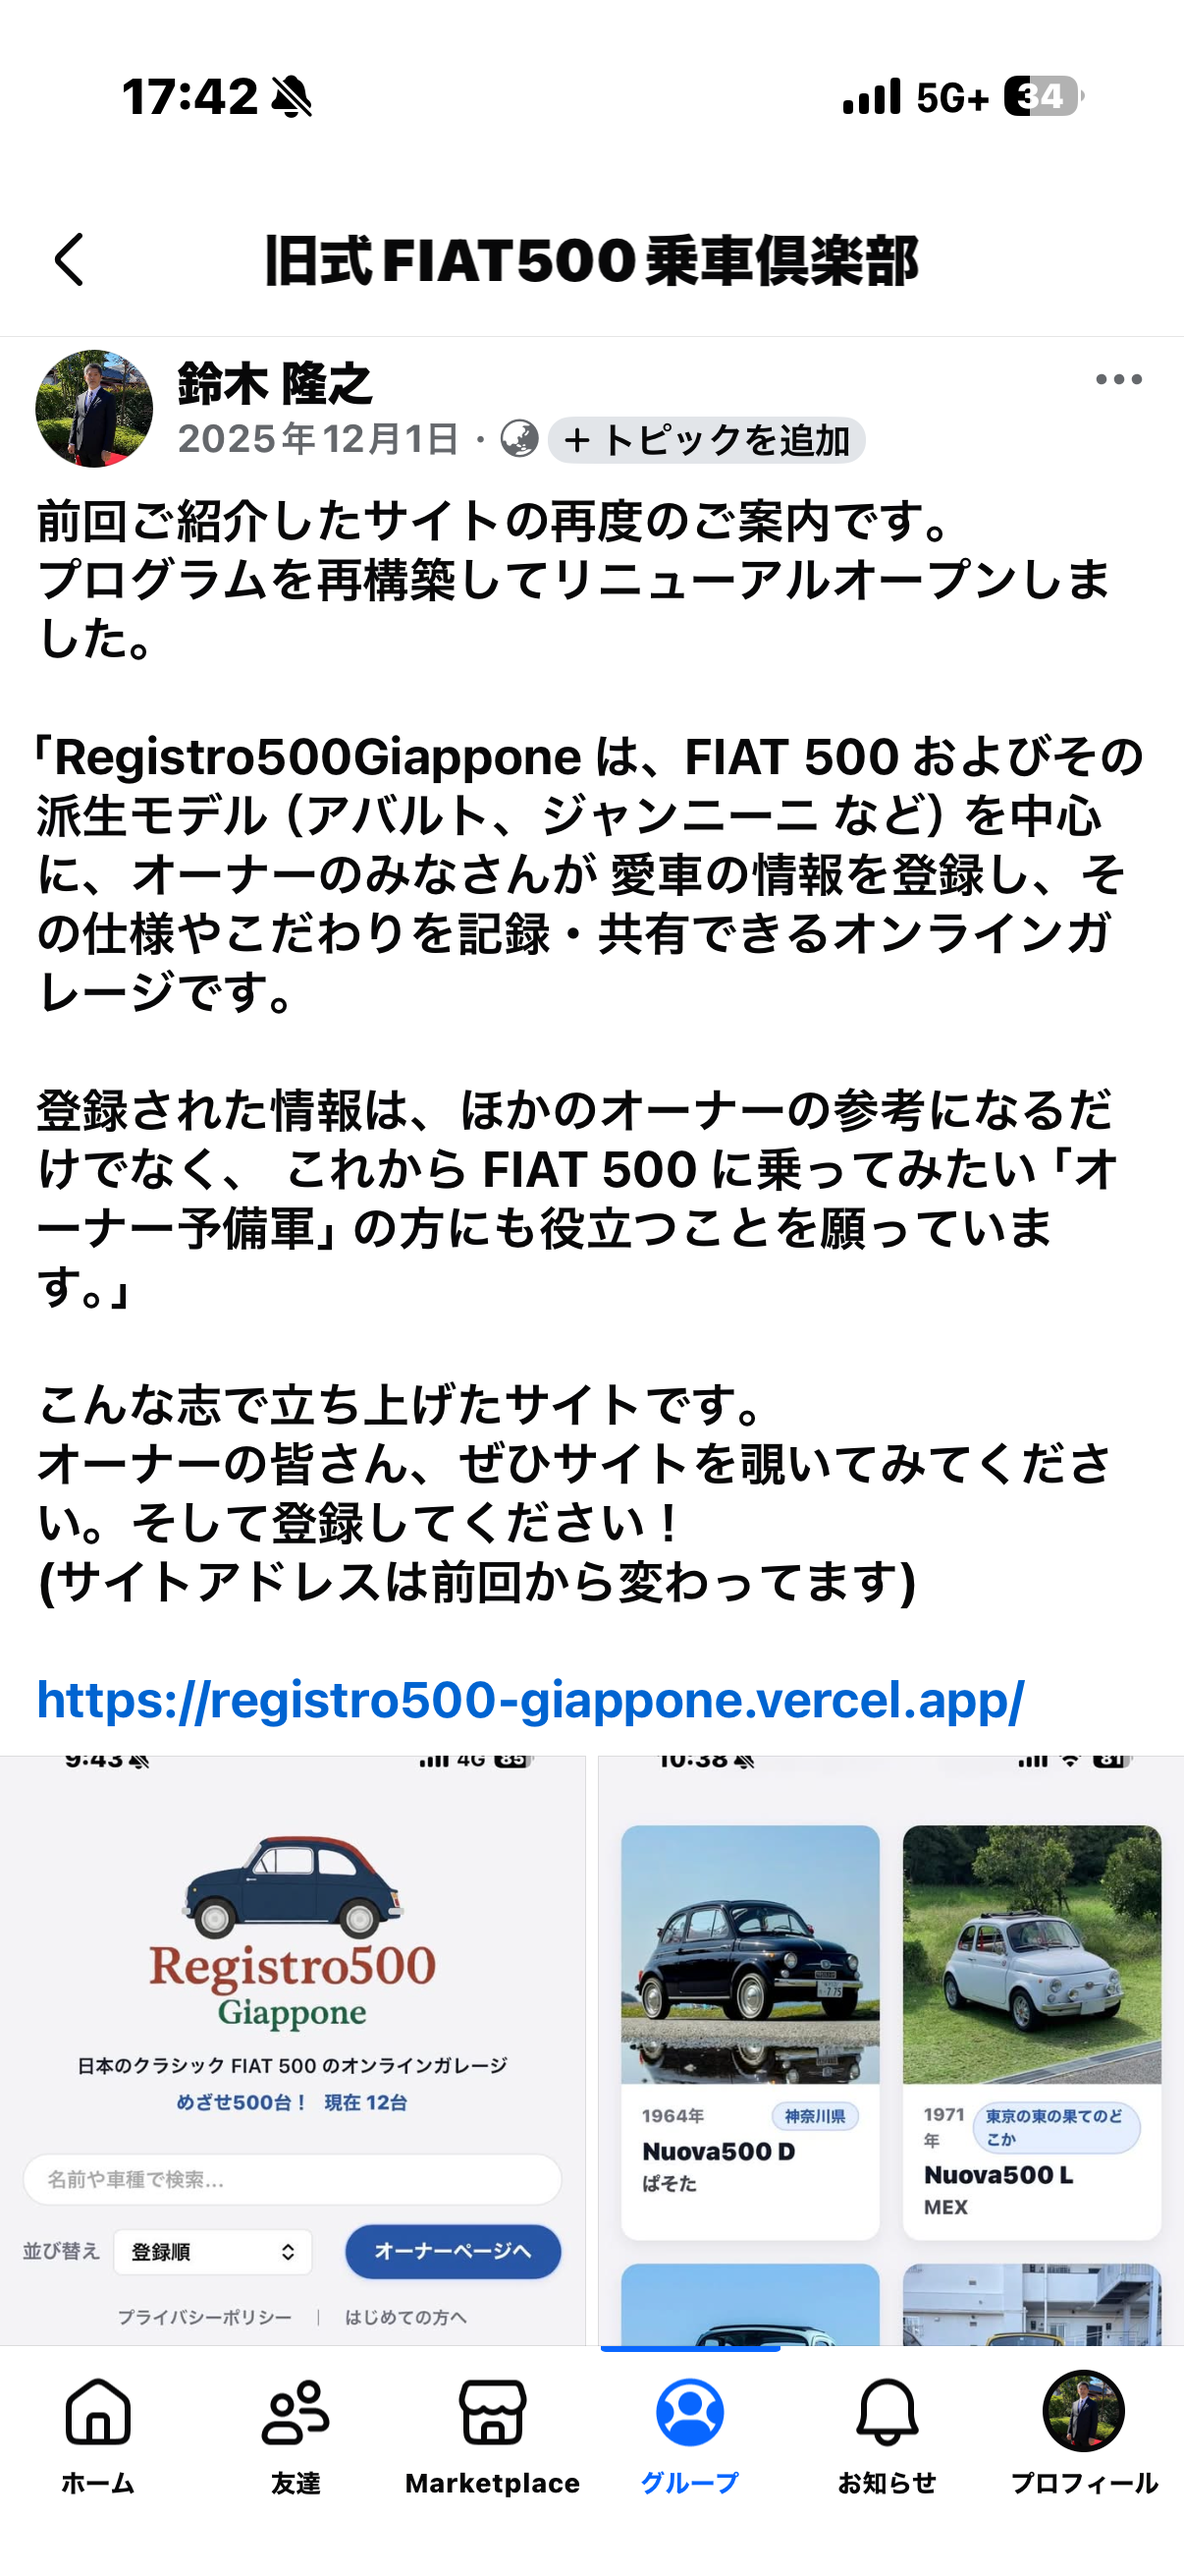
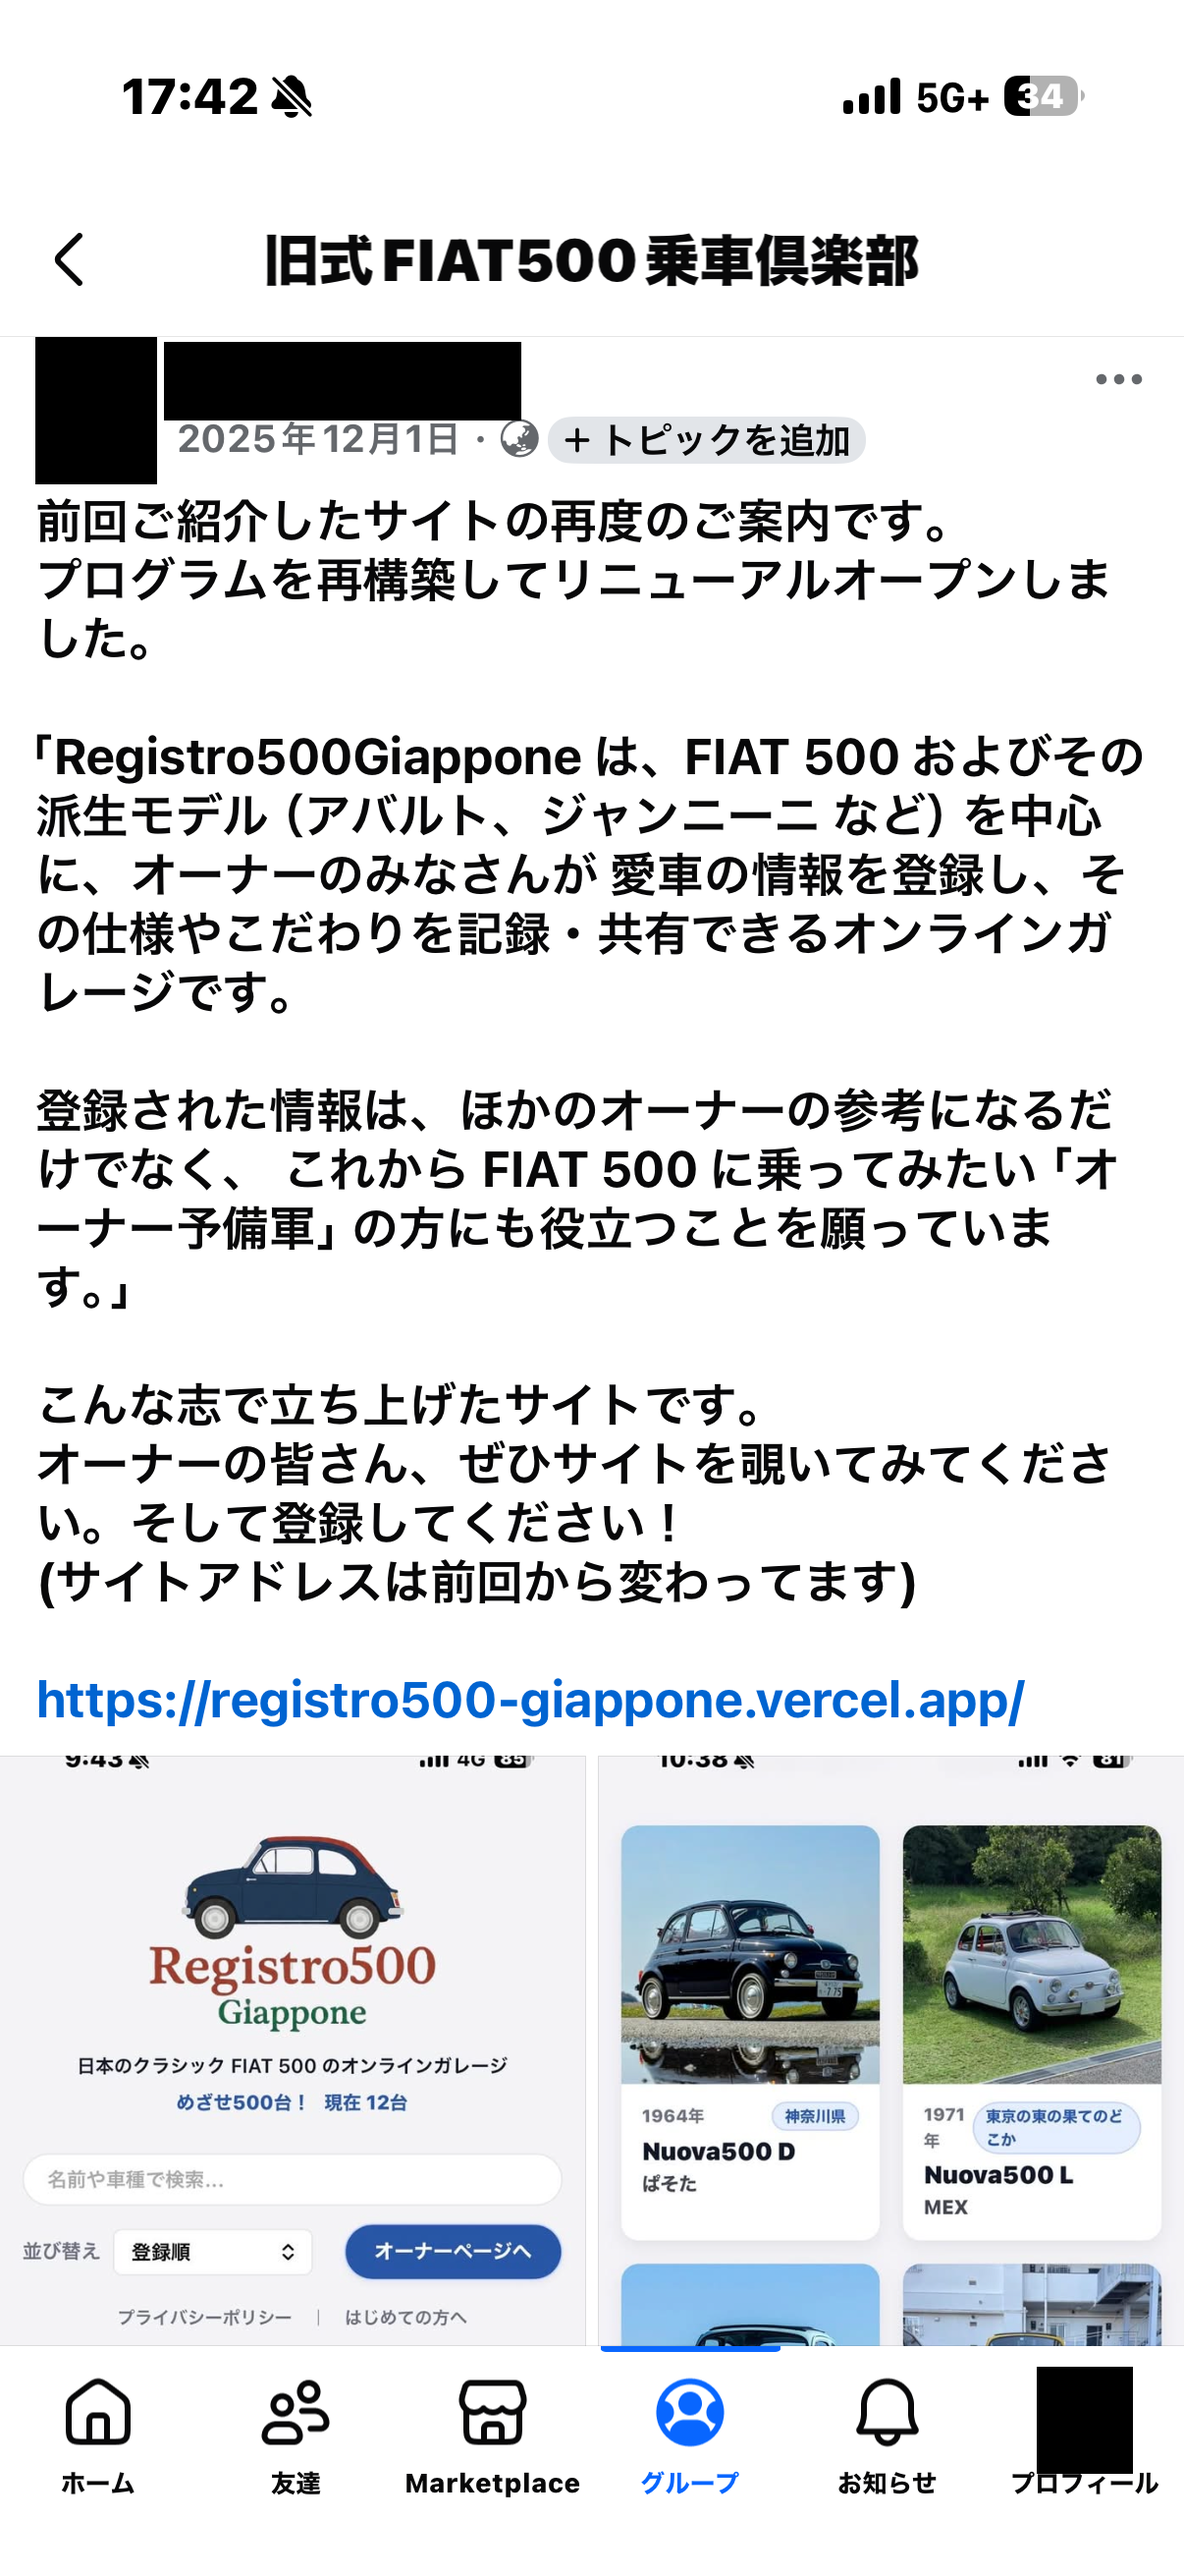
docs(note): Facebook告知11枚を追加(計16枚)・氏名を全枚マスキング
本人指示により、投稿者名・アイコン・他者氏名・プロフィール写真を全16枚で
黒塗り処理。日付と本文は残した。告知はFacebookグループ/X/Instagramの
3チャネル同時と判明。

新たに判明した重要事実:
- サイトの愛称は「レジちん」。2026年1月から投稿の書き出しが
  「レジちん管理人です。」に変わり、「レジちん登録した？」を合言葉として広めている
- 2026-02-15にGREEN NUTSで「レジちん開設記念イベント」を開催、30台超が参加。
  オンラインのサイトがリアルの集まりを生んでいた
- 動画ガイドはチンクの誕生日(7/4)に合わせて公開。区切りに合わせて出す性格
- 配線図の原図は2004年1月31日にOTSUKA氏が作図したもの
- 動画本数はエンジン186本ほか計629本規模
- 「どっちが安いか比べ太郎」は海外8ショップと再確認

あわせてorigin/mainをマージ。ブランチが遅れていたため古いコードを見て
「装備手帳の表記不一致」と指摘していたが、その指摘自体が誤りだった。
現在の実装は一覧=みんなの車載手帳/個別=車載手帳。名称の最終確認を待つ。

Claude-Session: https://claude.ai/code/session_01PLfMaEfWWSgsJiv2ELwN6V

Changed region(s): [[0.0307, 0.1236, 0.4602, 0.1854], [0.859, 0.8959, 0.9818, 0.9577]]

diff --git a/note-article/告知スクショ.md b/note-article/告知スクショ.md
@@ -1,8 +1,14 @@
 # Facebook告知スクリーンショット（2026-08-03 提供・続きあり）
 
 > 投稿先: Facebookグループ **「旧式FIAT500乗車倶楽部」**
-> **これまでで最も価値のある一次資料。** Glide期の実物告知と、初期の登録台数が日付つきで残っている。
-> 画像は `images/fb-*.png`
+> **本人談（2026-08-03）: 「この他自分のXとインスタのアカウントで告知した。内容と時期は同じ」**
+> → 告知は**3チャネル同時**（Facebookグループ／X／Instagram）。
+>
+> **これまでで最も価値のある一次資料。** 画像は `images/fb-01`〜`fb-16`（計16枚）。
+>
+> 🔒 **氏名・アイコン・他者の氏名は全枚マスキング済み**（本人指示 2026-08-03）。
+> 対象: 投稿者名／プロフィール写真／いいね欄の他者氏名／画面下部のプロフィール写真。
+> 日付と本文はそのまま残してあります。
 
 ---
 
@@ -230,3 +236,191 @@ Glide告知にだけあって現在のサイトにない一文:
 5. **紹介文が1年生き残っている話**
 6. 「出鼻を挫かれる忸怩たる思い」「区切りのいいところで統計ページなぞ」
    「未登録のあなた！ほら、あなたも！」など、**当時の生の言葉を引用する**
+
+
+---
+
+# 【第2弾 11枚】2026年1月〜8月の告知
+
+## 🎯 最大の発見：サイトの愛称は「レジちん」
+
+**2026年1月6日の投稿から、書き出しが変わります。**
+
+> **レジちん管理人です。**
+
+以後、ほぼ全ての投稿がこの一行で始まります。
+そして2026年1月14日の投稿:
+
+> 未登録オーナーを見かけたら、**「レジちん登録した？」を挨拶言葉に**、
+> ぜひご紹介ください！
+
+🎯 **Registro500 Giappone → 「レジちん」。**
+正式名称が長いので、コミュニティの中で愛称ができている。
+しかも本人が**それを合言葉として広めようとしている**。
+
+⚠ **私はこの愛称の存在を知りませんでした。** 記事で触れる価値が高いです。
+（「どっちが安いか比べ太郎」は略されると不本意、でも「レジちん」は自分から広めている。
+この対比も面白いところです）
+
+---
+
+## 🎯 第2の発見：リアルイベントを開催している
+
+**2026年2月21日の投稿:**
+
+> **2/15 GREEN NUTS でのレジちん開設記念イベントの様子です。
+> 　30台越えの参加と大盛況でした！**
+
+写真には、砂利の広場にチンクが20台以上ずらりと並んでいます。
+いいね53人以上。
+
+🎯 **オンラインのサイトが、リアルの集まりを生んでいる。**
+「オーナー同士の繋がりを増やしたい」という動機が、
+**九州遠征（5月）より前に、すでに一度形になっていた**わけです。
+
+⚠ **記事にとって重要度が高い。** 私はこのイベントの存在を把握していませんでした。
+- 開催日 2026年2月15日 / 会場 GREEN NUTS / 参加30台超
+- ご本人がどう関わったか（主催？共催？）は未確認 → **ヒアリング項目に追加**
+
+---
+
+## 🎯 第3の発見：動画ガイドは「チンクの誕生日」に公開した
+
+**2026年7月4日の投稿:**
+
+> レジちん管理人です。
+> **チンクの誕生日記念として、新メニュー「動画ガイド」を公開しました！**
+
+FIAT 500（Nuova 500）の発表日は **1957年7月4日**。
+**その記念日に合わせてリリースしている。**
+
+🎯 「区切りのいいところで統計ページなぞ作ってみました」（12/29）、
+「126台に到達したことを記念して126サイト」（2/25）、そしてこれ。
+**この人は必ず"意味のある日"や"区切り"に合わせて出している。**
+記事で一言まとめられる性格です。
+
+### 動画ガイドの規模（投稿画面より）
+
+| 系統 | 本数 |
+|---|---|
+| エンジン | **186本** |
+| ボディ・内装 | 138本 |
+| 点火・電装 | 88本 |
+| 一般メンテ・油脂 | 66本 |
+| 足回り・ブレーキ | 59本 |
+| 燃料・吸気 | 56本 |
+| 駆動・ミッション | 36本 |
+
+---
+
+## 各投稿の要点（第2弾）
+
+### 2026年1月6日｜80台超・イベントページ新設
+- 画面に「めざせ500台！ 現在 **81台**」／**2026新春ロゴ**（門松を載せたチンク）
+- 「チンクが参加できるイベントをどんどん登録してください！(登録オーナー限定)」
+- **「備忘録的に使っていただければ嬉しいです。」** ← 自分用メモという発想がここにも
+- 「チンク界隈を今年も盛り上げていきましょう！」
+- 「まだの方！車両登録お待ちしてま〜す♪」
+
+### 2026年1月14日｜90台突破・独自ドメイン
+- **「昨日、登録車両が90台を突破しました〜」**
+- **「毎度お目汚し失礼致します。」** ← 告知を重ねることへの照れ。人柄が出ている
+- 独自ドメイン **registro500.com** を登録
+- **「サイトの使い方は『初めての方へ』ページか、MEXさんがブログに詳しく紹介して
+  くれたのでそちらをご一読ください！」**（https://ameblo.jp/500raven/...）
+  → 🎯 **オーナーが自発的にブログで紹介してくれている**
+- **「マキナ等のレア車種、改造車種についても登録可能です」**
+- 「目指せ 500台！ もうすぐ100台！」
+
+### 2026年1月19日｜100台突破
+- **「ついに100台の大台を突破しました！」**／画面は **103台**
+- **「祝！100台突破」**の金文字バナーをわざわざ作っている
+- **「これも登録と勧誘にご尽力いただいた皆様のおかげです。厚く厚く御礼申し上げます。」**
+- 「今後も細々とした使い勝手の改善と機能追加を模索して参ります。」
+
+### 2026年2月21日｜レジちん開設記念イベント（上記）
+
+### 2026年2月25日｜126台達成 → Registro126 開設
+- **「これを記念して、兄弟サイト Registro126 Giappone を開設しました！」**
+- 「126を所有されているオーナーの皆さん、**大変お待たせいたしました。**」
+- **「サイトを通じてオーナー同士の繋がりを深めていきましょう！」**
+- 赤い126のロゴ画像を新規制作
+
+### 2026年3月5日｜3メニュー同時公開
+- 現在 **500が128台、126が6台**
+- **「本日３つのメニューを新規オープンしました。」**
+  1. パーツ購入ガイド（アンケート回答を反映）
+  2. **「どっちが安いか比べ太郎」— 海外8ショップ**・VATを除いた実質価格で
+     リアルタイム比較・登録オーナー限定
+  3. ガレージノート
+- ガレージノートの説明が良い:
+  > **次に同じ道を歩く人にとって何より頼りになる情報を、
+  > 　経験したオーナー同士で積み重ねていく場所です。**
+- **「レジちんでオーナー同士が情報を共有することで、
+  　500/126界隈をより盛り上げていければと思います。」**
+
+✅ **「8ショップ」がここでも確認できました**（当方が「9」と書いたのは誤り）。
+
+### 2026年4月11日｜オーナーズ・オリジナル・クリエーション Vol.01
+- 「第1弾は、お馴染み『napdesign』です。**純粋な応援企画です。**」
+- ページの惹句: **「チンクオーナーたちが使い、チンクオーナーたちが口コミで広める。」**
+- **「広告ではなく、仲間の口コミから知った」**
+- いいね41人以上
+
+### 2026年7月4日｜動画ガイド公開（上記）
+
+### 2026年7月22日｜配線図ビューア公開
+- 「メニューから見たい系統を選ぶと、関連する配線だけが浮き出るようになっています。」
+- 図中のクレジット: **「Special thanks to BoS?.GARA / drawed by OTSUKA 04.01.31」**
+  → 🎯 **原図は2004年1月31日にOTSUKA氏が作図したもの**。20年以上前の資料。
+  記事に書くなら「20年前に作られた配線図を、スマホで見られるようにした」と書ける
+
+### 2026年8月2日｜みんなの車載手帳 公開（17時間前）
+- **「皆さんが『当たり前』だと思って積んでいるものこそ読みたいです。
+  　どうぞどんどん書いてください！」**
+- 画面: **公開中の手帳（6件）**
+- 🎯 **「車載マエストロ」というバッジ**がある（MEXさん・装備数71）
+- 他に fiat_takeshiさん（装備数10）
+
+---
+
+# 🚨 名称について、確認をお願いします
+
+**本番サイトを最新化して確認したところ、実装は「車載手帳」でした。**
+
+（私のブランチが main から大きく遅れていたため、古いコードを見て
+「表記の不一致」と指摘していました。**その指摘自体が誤りでした。**
+main を取り込んで確認し直しています）
+
+| 場所 | 現在の実装 |
+|---|---|
+| 一覧ページ `equipment.html` | **みんなの車載手帳**（title・h1とも） |
+| 個別ページ `equipment-edit.html` | **車載手帳** |
+| `index.html` / `126/index.html` メニュー | **🧰 みんなの車載手帳** |
+| 2026-08-02 のFacebook告知 | **みんなの車載手帳** |
+| サイト全体での出現数 | 「みんなの車載手帳」**12件** ／「みんなの装備手帳」**0件** |
+| `equipment-review.html`（非公開・関係者限定） | 装備手帳 タタキ v0.2 ← 旧名の名残 |
+
+**ご指示は「一覧＝みんなの装備手帳／個別＝装備手帳」でしたが、
+実装・告知とも「車載」になっています。**
+
+構造（一覧＝みんなの◯◯手帳／個別＝◯◯手帳）はご指示のとおりです。
+違うのは **「装備」か「車載」か**の一語だけ。
+
+- **A: 「車載」が正しい**（ご指示は言い間違い）→ 記事は「みんなの車載手帳」で書きます
+- **B: 「装備」に変えたい** → 記事は「装備」で書き、
+  あわせてサイト12箇所とお知らせの改名作業もやります
+
+**どちらか教えてください。** 勝手に判断しません。
+
+---
+
+# 追加のヒアリング項目
+
+1. **レジちん開設記念イベント（2026-02-15・GREEN NUTS・30台超）**
+   - ご自身が主催されたのですか？ 共催・便乗？
+   - どういう経緯で開催に至りましたか？
+   - **記事に入れたい出来事です**（サイトがリアルの集まりを生んだ実例）
+2. **「レジちん」という愛称**は誰が言い出しましたか？ 自然発生ですか？
+3. 動画ガイドを**チンクの誕生日（7/4）に合わせた**のは狙ってですか？
+4. MEXさんのブログ紹介など、**オーナー側から広めてくれた動き**は他にもありましたか？
